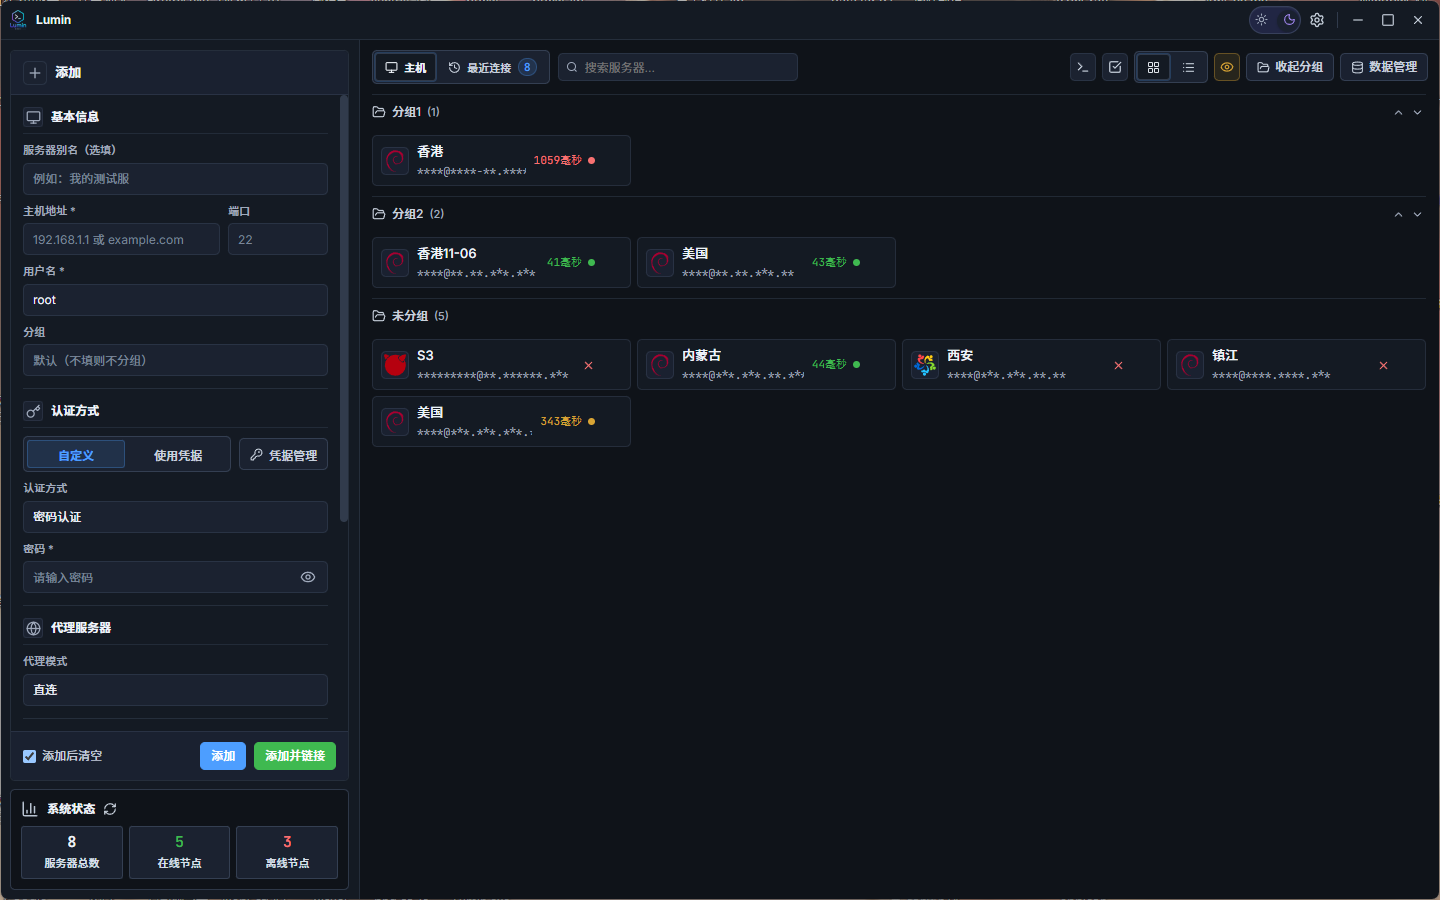
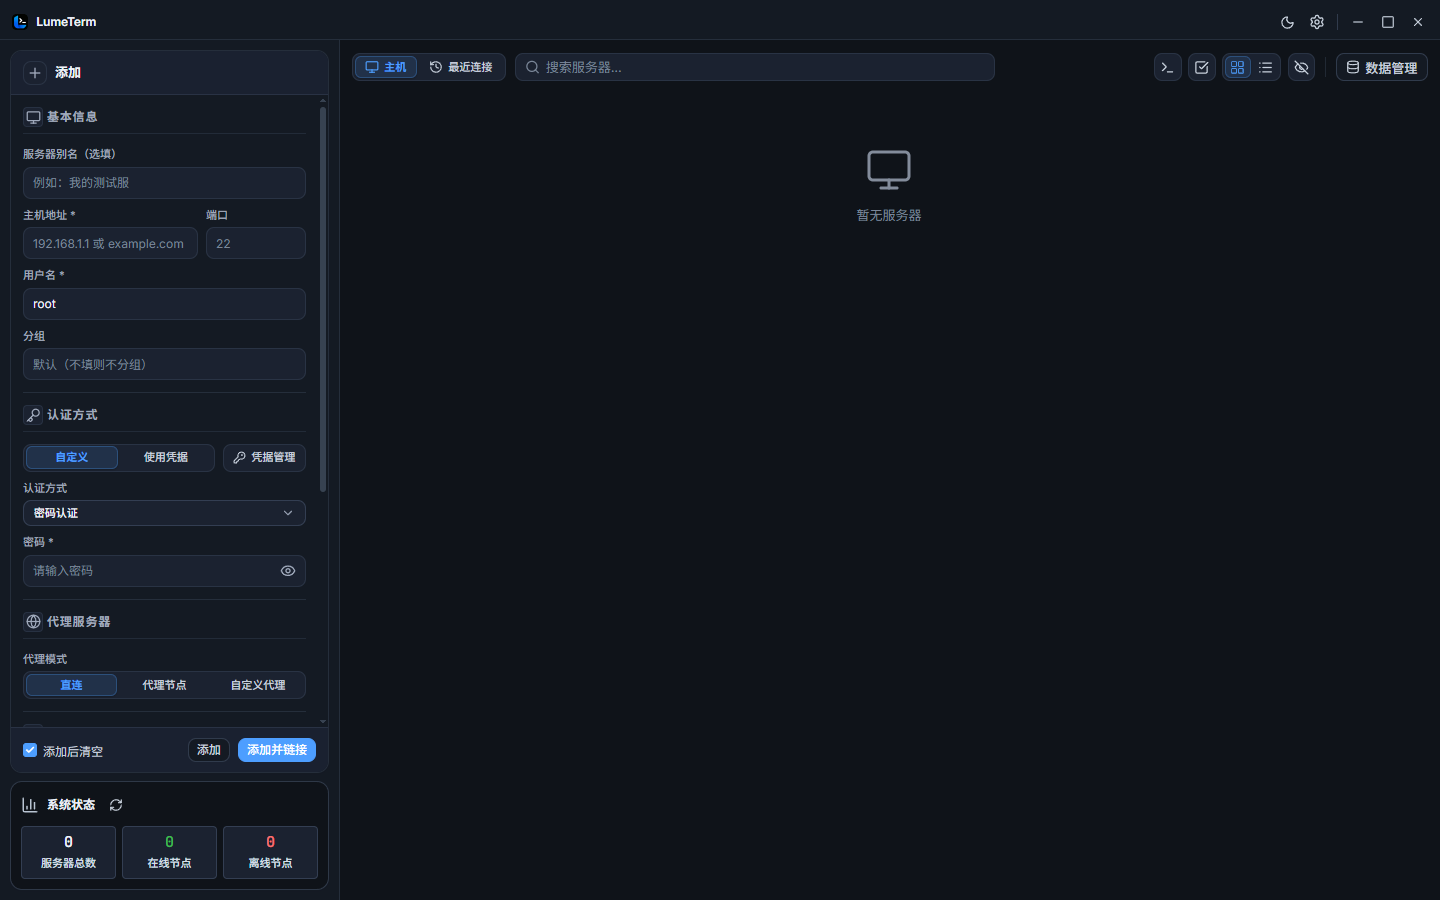
fix(branding): 清理品牌改名后的 README 截图与 R2 前缀占位符残留
品牌全量改名 LumeTerm 后仍有零星残留:

- assets/pc_empty_main.png: README 主打截图的窗口标题栏仍为旧品牌
  Lumin 且带旧 logo,换用 LumeTerm 全新启动的主面板截图(1440x900,
  与原图同构图:添加表单+主机区+系统状态)。旧图还含真实服务器昵称
  与延迟信息,一并移除
- R2 同步「前缀 (Prefix)」占位符 Lumin/ → LumeTerm/(仅 placeholder,
  不影响已保存配置)

assets/pc_connected_session.png 同样为旧品牌标题栏,但其内容需要真实
远程会话(终端+资源监控+AI 面板),无法离线忠实重制,本 PR 不改动,
建议后续用真实会话重截后替换。

diff --git a/frontend/src/components/settings/sync/SyncProviderForms.tsx b/frontend/src/components/settings/sync/SyncProviderForms.tsx
@@ -59,7 +59,7 @@ export function R2FormFields({ r2Form, setR2Field }: { r2Form: ProviderForm; set
       </div>
       <div className="form-group" data-settings-field-id={syncSettings.fields.r2Prefix.id}>
         <label htmlFor="sync-r2-prefix" className="form-label">{$t('前缀 (Prefix)')}</label>
-        <input id="sync-r2-prefix" name="sync-r2-prefix" className="input" autoComplete="off" value={r2Form.prefix} onChange={setR2Field('prefix')} placeholder="Lumin/" />
+        <input id="sync-r2-prefix" name="sync-r2-prefix" className="input" autoComplete="off" value={r2Form.prefix} onChange={setR2Field('prefix')} placeholder="LumeTerm/" />
       </div>
       <div className="form-group" data-settings-field-id={syncSettings.fields.r2MaxBackups.id}>
         <label htmlFor="sync-r2-max-backups" className="form-label">{$t('保留份数 (0=不限)')}</label>
